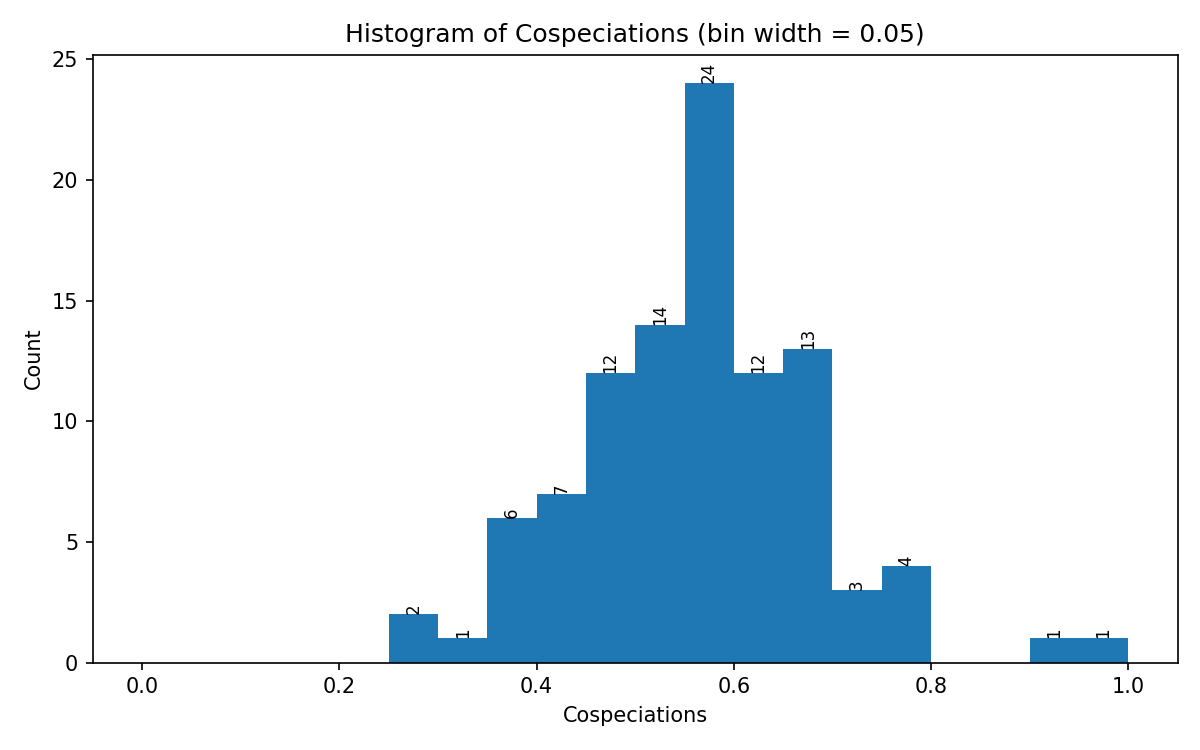
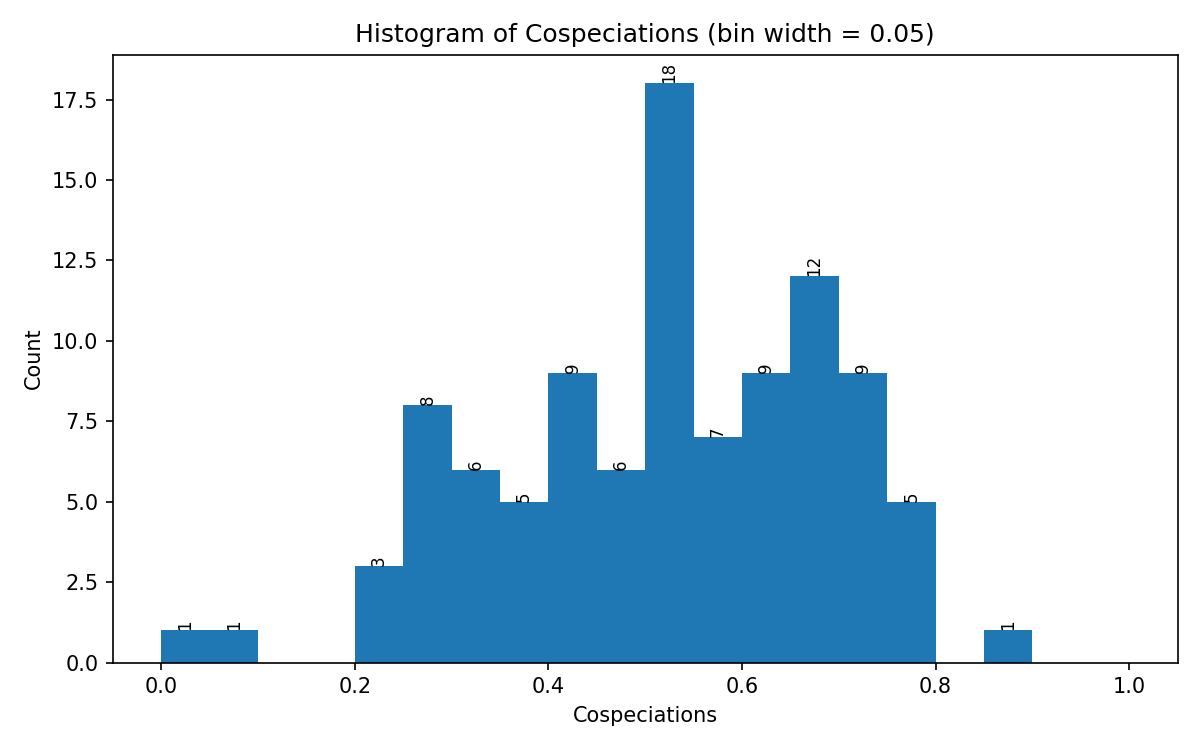
train new data

diff --git a/co-phyloformer/train.py b/co-phyloformer/train.py
@@ -164,8 +164,8 @@ def encode_sequence(sequence, max_len=128):
 
 def main(fabric: Fabric):
     # Load Data
-    #preencoded_dir = "/lustre/fsn1/projects/rech/vcu/commun/Co-Phyloformer/generate_treeducken/generated_trees/test_preencoded_pt/"
-    preencoded_dir = '/Users/gabriele/Co-phyloformer/generate_treeducken/generated_trees/test/'
+    preencoded_dir = "/lustre/fsn1/projects/rech/vcu/commun/Co-Phyloformer/generate_treeducken/generated_trees/test_preencoded_pt/"
+    #preencoded_dir = '/Users/gabriele/Co-phyloformer/generate_treeducken/generated_trees/test/'
     dataset = LazyCophyloformerDataset(preencoded_dir)
     # Train/Validation Split
     indices = list(range(len(dataset)))
@@ -175,9 +175,9 @@ def main(fabric: Fabric):
     train_subset = torch.utils.data.Subset(dataset, train_indices)
     val_subset   = torch.utils.data.Subset(dataset, val_indices)
     device = fabric.device
-    epochs = 5
+    epochs = 30
 
-    batch_size = 4
+    batch_size = 32
 
     train_loader = DataLoader(
         train_subset,
@@ -302,9 +302,15 @@ def main(fabric: Fabric):
         # Validation trigger points at 25%, 50%, 75% of the epoch
         val_checkpoints = {
             int(0 * steps_per_epoch),
-            int(0.25 * steps_per_epoch),
+            int(0.10 * steps_per_epoch),
+            int(0.20 * steps_per_epoch),
+            int(0.30 * steps_per_epoch),
+            int(0.40 * steps_per_epoch),
             int(0.50 * steps_per_epoch),
-            int(0.75 * steps_per_epoch),
+            int(0.60 * steps_per_epoch),
+            int(0.70 * steps_per_epoch),
+            int(0.80 * steps_per_epoch),
+            int(0.90 * steps_per_epoch)
         }
         num_events = len(event_names)
         sum_abs_err = torch.zeros(num_events, device=device)
